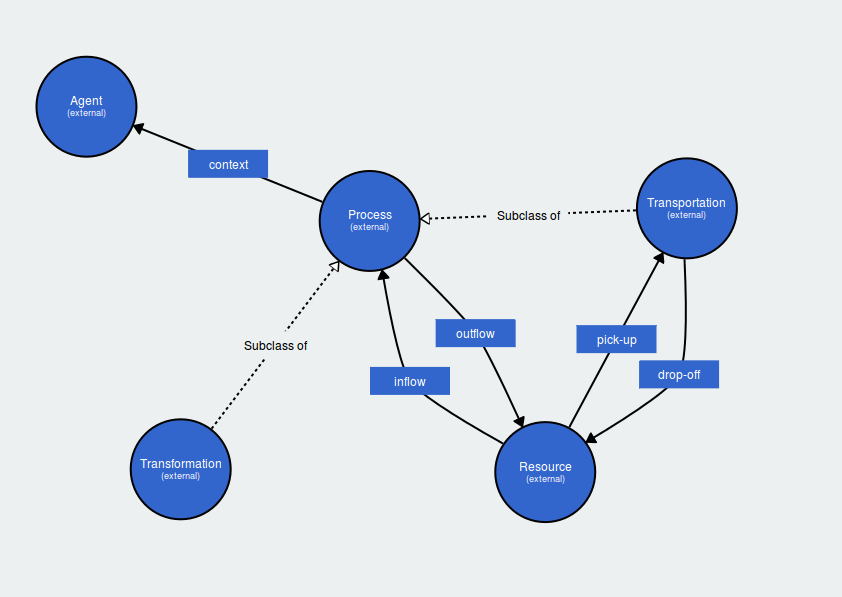
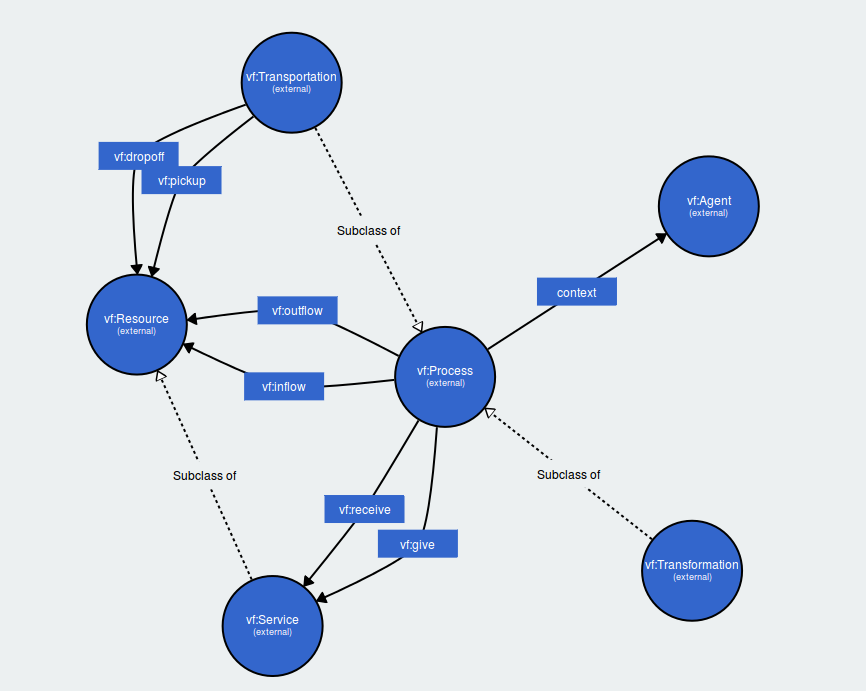
related Service and Process

diff --git a/Input.md b/Input.md
@@ -14,6 +14,6 @@ a slot which accommodates resources going into the process
 * use - for example a tool used in process, after the process, the tool still exists
 * consume - for example an ingredient composed into the output, after the process the ingredient is gone
 * cite - for example a design file, neither used nor consumed, the file remains available at all times
-* work - labor power towards a process
+* receive - for example work/labor power towards a process, used with [vf:Service](https://github.com/valueflows/resource/blob/master/Resource.md)
 * accept - in processes like repair or maintentance, same resource will appear in [vf:Output](https://github.com/valueflows/process/blob/master/Output.md) with *improve* verb
 * pickup - specific for [vf:Transportation](https://github.com/valueflows/process/blob/master/Transportation.md), transported resource enter the process

diff --git a/Output.md b/Output.md
@@ -11,5 +11,6 @@ a slot which accommodates resources going out of the process
 
 ## verbs
 * create - new resource created in that process
+* give - for example health care, used with [vf:Service](https://github.com/valueflows/resource/blob/master/Resource.md)
 * improve - in processes like repair or maintentance, same resource will appear in [vf:Input](https://github.com/valueflows/process/blob/master/Input.md) with *accept* verb
 * pickup - specific for [vf:Transportation](https://github.com/valueflows/process/blob/master/Transportation.md), transported resource enter the process
